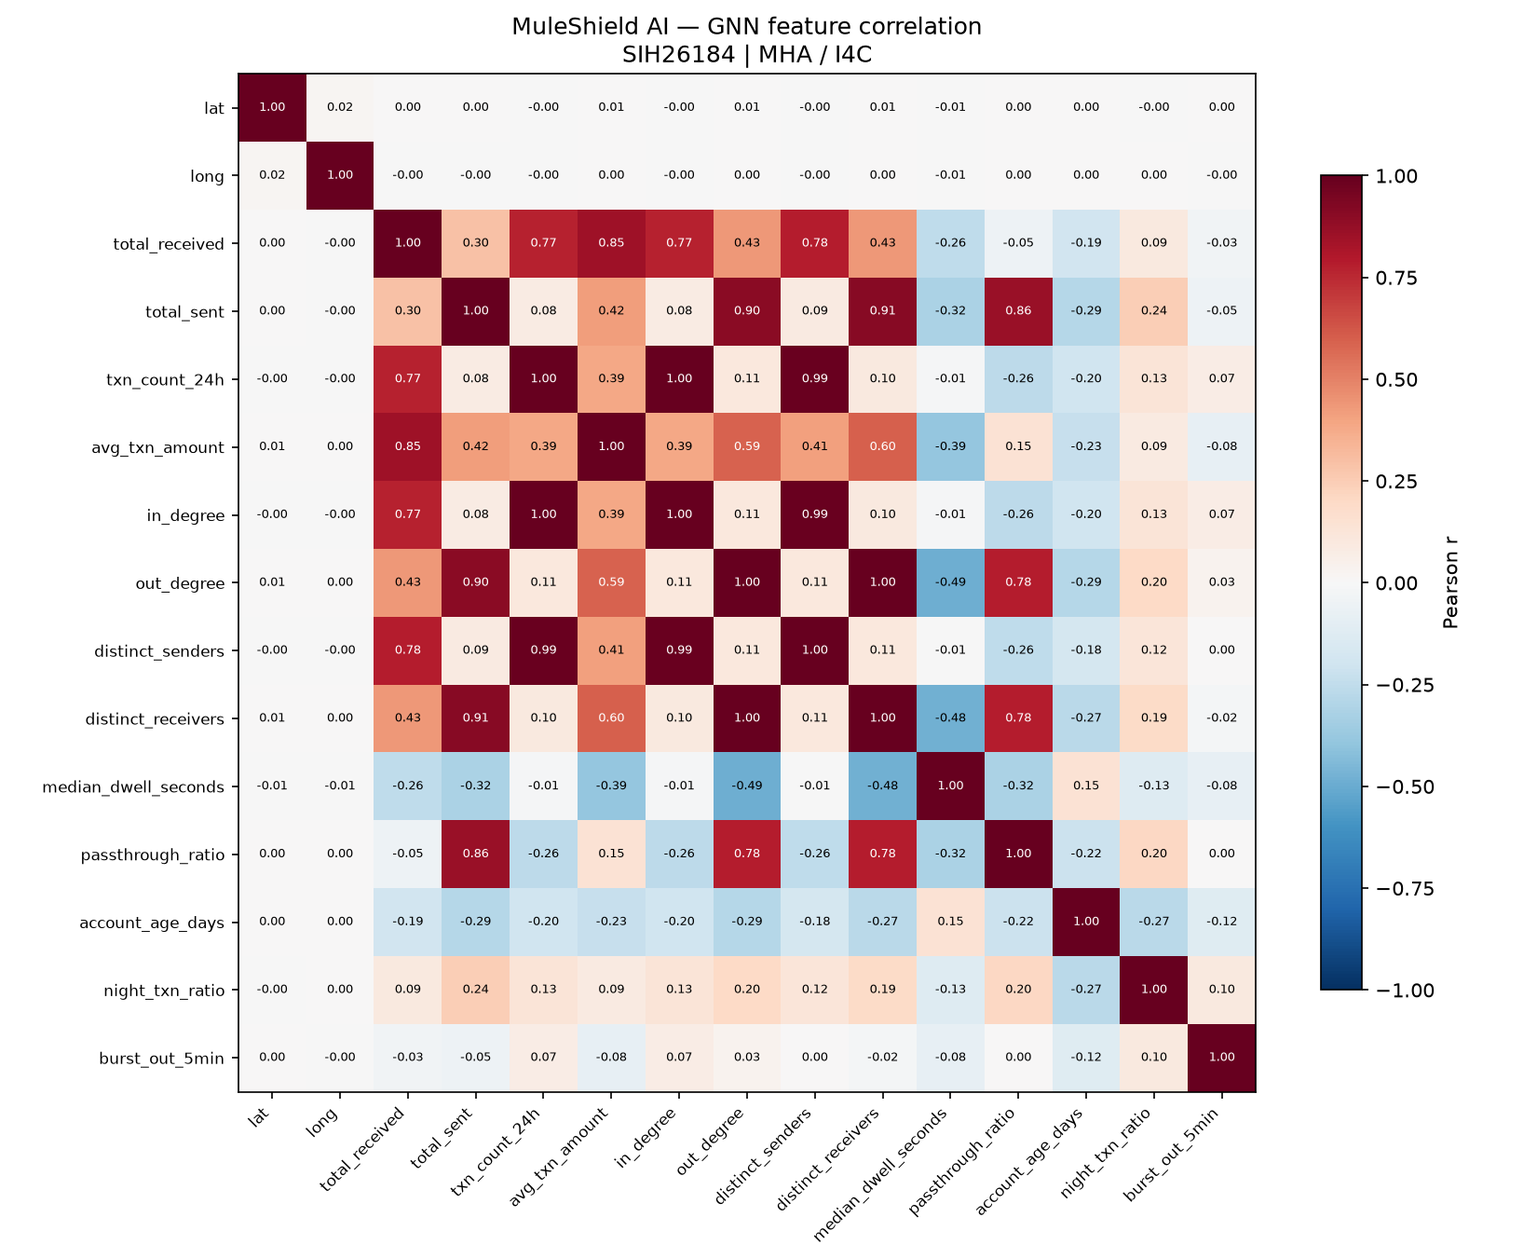
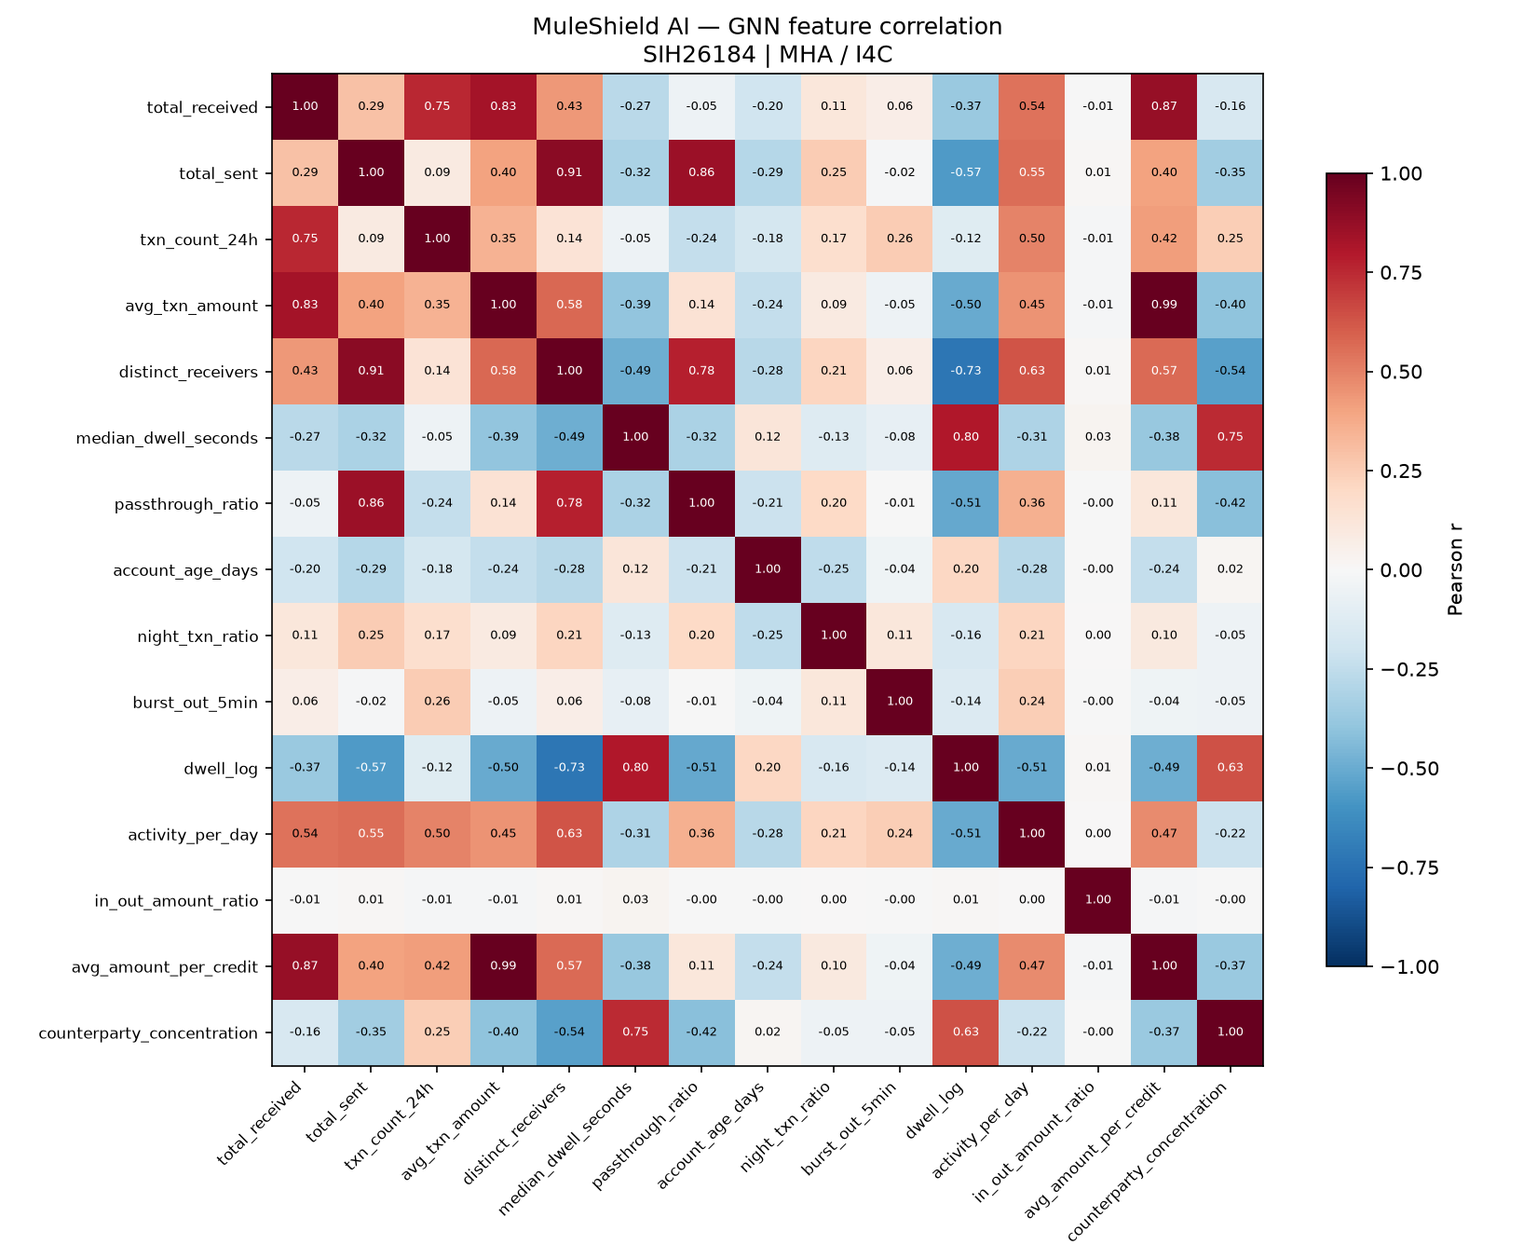
docs: regenerate the model matrix on the current corpus, add it as a table and a flow diagram, and correct the figures that had drifted
The two matrix figures were four days old, generated before the corpus was
regenerated twice -- including the 7.3x concentration change. Worse, the
headline card led with search-zone containment and mule-detection F1, both from
before the forward forecast engine existed. A headline for SIH26184 that omits
"forecast likely cash withdrawal locations in advance" is a card about a
different problem. It now opens on PAI@5 32.7x, hit rate 95.3% and a 40-minute
median lead time, and still closes on Top-1 at 0.2686, the number that works
against us.

The concentrated corpus also lifted mule F1 to 0.9051, within 0.022 of the
0.927 label-noise ceiling, so the bar's value label was drawing straight
through the ceiling annotation. The caption moves to the top left, where the
weakest bar guarantees empty space, and a bar within 0.035 of the ceiling gets
its label reversed out inside it.

Add the matrix as a readable table -- the PNGs cannot be searched or copied --
generated from data/metrics.json so no figure in it is typed, and carrying the
rows that work against us: Top-1 is behind plain distance, and nearest-cell-to-
traced-terminal scores 1.0000 against the forecast's 0.9530. Add a mermaid
end-to-end flow diagram covering the whole system rather than the ML path
alone, validated by rendering it headless first.

Two stale prose figures found by cross-checking every 4-decimal number in the
README against the ledger, which is how they should have been found the first
time:
[…]

diff --git a/scripts/generate_model_matrix.py b/scripts/generate_model_matrix.py
@@ -267,12 +267,24 @@ def render(g: dict, loc: dict) -> None:
     cols = [BASE] * (len(vals) - 1) + [ACCENT]
     ax.bar(names, vals, color=cols, width=.62)
     ax.axhline(g["ceiling"], color=CEIL, lw=1.4, ls="--")
-    ax.text(len(vals) - .45, g["ceiling"] + .012,
+    # The ceiling caption used to sit on the right, above the line. That was safe
+    # while the model was 0.03 below the ceiling; the concentrated corpus lifted F1
+    # to within 0.022 of it and the caption landed on top of the bar's own label.
+    # It goes on the left instead -- the leftmost bar is the weakest by
+    # construction, so the top-left of this panel is always empty.
+    ax.text(-.45, g["ceiling"] + .012,
             f"label-noise ceiling {g['ceiling']:.3f}", fontsize=7.6,
-            color=CEIL, ha="right")
+            color=CEIL, ha="left")
     for i, v in enumerate(vals):
-        ax.text(i, v + .012, f"{v:.4f}", ha="center", fontsize=8.4,
-                fontweight="bold" if i == len(vals) - 1 else "normal")
+        last = i == len(vals) - 1
+        # A bar that gets close to the ceiling has nowhere above it to put a
+        # label, so the label goes inside the bar rather than through the line.
+        if g["ceiling"] - v < .035:
+            ax.text(i, v - .018, f"{v:.4f}", ha="center", va="top",
+                    fontsize=8.4, fontweight="bold", color="#ffffff")
+        else:
+            ax.text(i, v + .012, f"{v:.4f}", ha="center", fontsize=8.4,
+                    fontweight="bold" if last else "normal")
     ax.set_ylim(0, 1.02); ax.set_ylabel("F1")
     ax.tick_params(axis="x", labelsize=8)
 
@@ -326,7 +338,7 @@ def render(g: dict, loc: dict) -> None:
     print(f"  [OK] {out}")
 
     # ── Headline card ───────────────────────────────────────────────────────
-    fig, ax = plt.subplots(figsize=(16, 4.6), facecolor=PAPER)
+    fig, ax = plt.subplots(figsize=(19, 4.6), facecolor=PAPER)
     ax.axis("off")
     ax.text(.012, .88, "MuleShield AI — Validated Performance", fontsize=21,
             fontweight="bold", color=INK, transform=ax.transAxes)
@@ -341,25 +353,44 @@ def render(g: dict, loc: dict) -> None:
     bayes_note = ("= the Bayes bound" if abs(top1 - bayes1) < 0.005
                   else f"vs {bayes1:.4f} Bayes bound")
 
+    # The card leads with the DELIVERABLE, not with the supporting machinery.
+    #
+    # An earlier revision opened on search-zone containment and mule-detection
+    # F1 and never mentioned the forward surface at all -- it was drawn before
+    # that engine existed and nobody moved it. A headline card for SIH26184 that
+    # omits "forecast likely cash withdrawal locations in advance" is a card
+    # about the wrong problem.
+    #
+    # It also ends on the number that works against us. Top-1 ATM does not beat
+    # sorting by distance, and a card that only carries wins is a card a judge is
+    # right to distrust.
+    hs = LEDGER["hotspot"]
+    dens = hs["baseline_historical_density"]
+
     cards = [
+        (f"{hs['pai_at_k']['5']:.1f}×", "forecast vs chance",
+         f"PAI@5 · {hs['pai_at_k']['5'] / dens['pai_at_5']:.1f}× a density map", ACCENT),
+        (f"{hs['hit_rate_at_k']['5']:.1%}", "cash-outs in 5 cells",
+         f"of {hs['n_cells']} · {hs['flagged_atm_share_at_k']['5']:.1%} of the ATM estate", ACCENT),
+        (f"{hs['lead_time_median_min']:.0f} min", "median lead time",
+         f"{hs['lead_actionable_rate']:.0%} with ≥15 min to act", ACCENT),
         (f"{z['model']:.1%}", "search-zone containment",
-         f"vs {z['near3']:.1%} best naive zone", ACCENT),
-        (f"{z['atms']:.0f} of {z['n_atms']:,}", "ATMs to cover",
-         f"{z['radius']:.1f} km radius · {z['ms']:.1f} ms", ACCENT),
+         f"vs {z['near3']:.1%} best naive zone", INK),
         (f"{g['bars'][-1][1]:.4f}", "mule-detection F1",
          f"vs {g['best_non_graph']:.4f} best non-graph", INK),
-        (f"{loc['mae']:.1f} min", "countdown MAE",
-         f"vs {loc['base_mae']:.1f} min baseline", INK),
         (f"{top1:.4f}", "exact-ATM Top-1", bayes_note, MUTED),
     ]
+    n_cards = len(cards)
+    gap, left = .010, .012
+    width = (1.0 - 2 * left - (n_cards - 1) * gap) / n_cards
     for i, (big, label, sub, col) in enumerate(cards):
-        x = .012 + i * .197
-        ax.add_patch(plt.Rectangle((x, .10), .182, .50, transform=ax.transAxes,
+        x = left + i * (width + gap)
+        ax.add_patch(plt.Rectangle((x, .10), width, .50, transform=ax.transAxes,
                                    facecolor=PANEL, edgecolor=RULE, lw=1))
-        ax.text(x + .014, .43, big, fontsize=25, fontweight="bold", color=col,
+        ax.text(x + .012, .43, big, fontsize=22, fontweight="bold", color=col,
                 transform=ax.transAxes)
-        ax.text(x + .014, .32, label, fontsize=10.5, color=INK, transform=ax.transAxes)
-        ax.text(x + .014, .19, sub, fontsize=8.6, color=MUTED, transform=ax.transAxes)
+        ax.text(x + .012, .32, label, fontsize=9.8, color=INK, transform=ax.transAxes)
+        ax.text(x + .012, .19, sub, fontsize=7.9, color=MUTED, transform=ax.transAxes)
 
     out2 = DOCS / "sih_performance_matrix_slide.png"
     plt.savefig(out2, dpi=200, bbox_inches="tight", facecolor=PAPER)

diff --git a/README.md b/README.md
@@ -6,7 +6,7 @@
 [![FastAPI](https://img.shields.io/badge/FastAPI-0.110.0-009688.svg)](https://fastapi.tiangolo.com/)
 [![PyTorch Geometric](https://img.shields.io/badge/PyG-GraphSAGE-orange.svg)](https://pytorch-geometric.readthedocs.io/)
 [![XGBoost](https://img.shields.io/badge/ML-XGBoost%20v2-green.svg)](https://xgboost.readthedocs.io/)
-[![Tests](https://img.shields.io/badge/Tests-481%20passed-brightgreen.svg)]()
+[![Tests](https://img.shields.io/badge/Tests-497%20passed-brightgreen.svg)]()
 [![SIH 2026](https://img.shields.io/badge/SIH-2026%20Problem%20ID%3A%20SIH26184-red.svg)]()
 [![License: MIT](https://img.shields.io/badge/License-MIT-yellow.svg)](LICENSE)
 
@@ -234,6 +234,105 @@ Cyber fraud incidents reported on the National Cybercrime Reporting Portal (**19
   └── 🔒 Real-time Micro-Freeze Action Recommendation (<25ms latency)
 ```
 
+### End-to-end flow — complaint to intervention
+
+The ASCII block above is the per-case ML pipeline. This is the whole system: what
+comes in, what the models do with it, how many cases become one national surface,
+and what a human has to sign before anything happens to anybody.
+
+```mermaid
+flowchart TD
+    subgraph IN["INBOUND"]
+        direction LR
+        C["1930 / NCRP complaint<br/><i>victim · bank · amount · city</i>"]
+        T["Inter-bank transaction trace<br/><i>assumed — RBI/NPCI is building it</i>"]
+        R["Suspect registry<br/><i>MuleHunter.AI · Samanvaya</i>"]
+    end
+
+    subgraph PER["PER CASE — one complaint at a time"]
+        direction TB
+        G["Directed transaction graph<br/>BFS · velocity · 1-to-N splitting"]
+        E["GraphSAGE<br/>64-dim structural risk embedding"]
+        F["80-dim hybrid feature vector<br/>64 GNN + 16 geospatial &amp; temporal"]
+        RK["Conditional-logit ranker<br/><b>posterior over 25 reachable ATMs</b>"]
+        CD["XGBoost regressor<br/><b>countdown band q05 · median · q95</b>"]
+        G --> E --> F
+        F --> RK
+        F --> CD
+    end
+
+    subgraph AGG["FRAMEWORK — every open case at once"]
+        direction TB
+        P["Project onto 226 cells at 12 km"]
+        W["Conditional-lognormal survival kernel<br/>renormalised on <i>T &gt; elapsed</i>"]
+        S["<b>Forward intensity surface</b><br/>cells × 0–30 / 30–60 / 60–120 min"]
+        PR["Historical prior<br/><b>capped at 15% of the mass</b>"]
+        P --> S
+        W --> S
+        PR -.->|"one term, never the driver"| S
+    end
+
+    subgraph ACT["POLICY — what fires when nobody is looking"]
+        direction TB
+        RU["4 rules on a 60s tick<br/>CRITICAL · HIGH · WATCH"]
+        AL["Alert<br/><i>carries its own live-vs-prior split</i>"]
+        DL["Scoped recipients<br/>LEA · I4C · BANK, by state and district"]
+        CH["SMS · email · CFCFRMS &amp; Samanvaya webhooks<br/><i>simulated transport, labelled on screen</i>"]
+        RU --> AL --> DL --> CH
+    end
+
+    subgraph HUM["HUMAN — the gate"]
+        direction TB
+        OF["Officer acknowledges<br/><b>disposition required</b><br/><i>Dispatched · Monitoring · False positive · Duplicate</i>"]
+        FR["Micro-freeze<br/><i>simulated bank hold</i>"]
+        OF --> FR
+    end
+
+    subgraph REC["RECORD — what survives the case"]
+        direction TB
+        EV["Evidence custody<br/>SHA-256 at collection · hash chain · no delete"]
+        CE["BSA 2023 s.63 certificate"]
+        DO["Police dossier"]
+        EV --> CE
+    end
+
+    C --> G
+    T -.->|"the load-bearing assumption"| G
+    RK --> P
+    CD --> W
+    R -.->|"routing signal, not a model feature"| RU
+    S --> RU
+    AL --> OF
+    OF --> EV
+    OF --> DO
+
+    classDef deliverable fill:#1F4D3D,stroke:#123027,color:#fff,font-weight:bold
+    classDef gate fill:#A03227,stroke:#6E211A,color:#fff,font-weight:bold
+    classDef assumed fill:#F4F5F2,stroke:#9AA5AE,color:#16191A,stroke-dasharray:4 3
+    class S deliverable
+    class OF gate
+    class T,R assumed
+```
+
+**Three things the diagram is making a point of.**
+
+The **dashed inbound edges** are what we do not own. The inter-bank trace is the
+load-bearing assumption of the entire system — a victim at 2 am knows an amount and
+nothing else, so the chain has to come from the banking side, which is exactly what
+RBI/NPCI is building CFCFRMS to do. The suspect registry is consumed as a *routing
+signal*, not as a model feature. `docs/INTEGRATION_SEAMS.md` §1.2 states both.
+
+The **prior enters the surface as one dashed term, capped at 15%**. A surface the
+prior could dominate is a density map of where fraud has already happened — which
+I4C already has, in Pratibimb. Every cell publishes its own
+`conditional_rupees` / `prior_rupees` split so a reader can check which half is
+carrying the forecast.
+
+**Nothing crosses into the red node automatically.** No unit is dispatched and no
+account is frozen without an officer acknowledging an alert with a disposition, and
+*False positive* is one of the four buttons — it feeds the false-positive rate the
+console publishes on its own header.
+
 ---
 
 ## 🔬 Core AI / ML Architecture
@@ -281,7 +380,7 @@ about a model, and an accuracy that looks too good usually is (see
 [Honest Evaluation](#-honest-evaluation)).
 
 Validated on a Pan-India dataset of **50,000 accounts**, **622,304 transactions**
-(22,311 laundering + 599,993 legitimate) and **1,000 ATMs**, with **481 tests passing**.
+(22,311 laundering + 599,993 legitimate) and **1,000 ATMs**, with **497 tests passing**.
 
 <div align="center">
   <img src="docs/sih_performance_matrix_slide.png" alt="MuleShield AI - validated performance summary" width="100%" />
@@ -295,6 +394,41 @@ Validated on a Pan-India dataset of **50,000 accounts**, **622,304 transactions*
   <code>scripts/generate_model_matrix.py</code> (matplotlib + scikit-learn + PyTorch + XGBoost).
   Every panel carries its baseline, and ceilings are drawn where one exists.</em></p>
 </div>
+
+### The matrix, in one table
+
+Every component, the question it answers, and the baseline it has to beat. Read from
+`data/metrics.json` — nothing below is typed.
+
+| Component | The question it answers | Achieved | Baseline it has to beat | Verdict |
+|---|---|---|---|---|
+| **Forward cash-out surface**<br/>*the deliverable* | Where will the money surface in the next 0–120 minutes? | PAI@5 **32.67**<br/>hit rate **0.9530** | historical density (= Pratibimb)<br/>PAI 5.43, hit rate 0.2333 | **6.0× the density map** |
+| Rupees covered @5 cells | How much of the money at risk is inside the cells we flag? | **0.9637** | flagging 2.92% of the ATM estate | the operationally meaningful denominator |
+| Lead time<br/>*"in Advance"* | Does the forecast arrive before the cash does? | median **40.2 min**<br/>p10 4.3 min | a report that lands after the withdrawal | **82.7%** with ≥15 min to act |
+| Search zone | Which *area* does a patrol get sent to? | **87.3%** containment<br/>median **7** ATMs, 9.7 km | nearest-3 ATM centroid 77.7% | **+9.5 points**, exact McNemar p = 3.5e-14 |
+| Top-5 ATM ranking | Which machines does a team walk into first? | **0.7258** | nearest-5 by distance 0.7076 | ahead; significance not re-established on this corpus |
+| Top-1 ATM | The single most likely machine. | 0.2682 | nearest ATM 0.2788 | **behind — published, not hidden** |
+| Countdown | How long until the withdrawal? | **11.88 min** MAE<br/>R² 0.12, band 78.5% coverage | predict-the-mean 14.58 min | observable ceiling ≈ 9.4 min — headroom remains |
+| Mule detection<br/>*supporting machinery* | Who is the crew behind the chain? | F1 **0.9051**<br/>AUC 0.9713, PR-AUC 0.8232 | Random forest (no graph) 0.8758 | +0.0292 F1 on identical features |
+| Complaint → alert dispatched | Does it fit inside the golden hour? | p95 **0.32 s** | the 60-minute 1930 golden hour | measured on a LOADED surface, not an empty one |
+| Ingestion throughput | Can it take the national load? | **3,451/min** = 4.97M/day | NCRP runs ~8,000 complaints/day | **621× headroom** |
+
+> **The row that works against us.** Ranking cells by plain distance from the
+> *traced terminal account* scores **1.0000** at k=5 — better than the
+> forecast's 0.9530. It is in the ledger, printed by
+> `scripts/evaluate_hotspots.py`, and guarded by a test that fails if the baseline is
+> deleted. The honest reading: the **trace** earns most of the location value — the same
+> geography with no trace, using only the 1930 intake fields, scores
+> **0.0106** — and what the forecast adds on top is the time
+> dimension, the rupee weighting, and the ability to aggregate many complaints into one
+> national surface, none of which a distance rule can supply.
+
+Every number above is read from `data/metrics.json`, which only the training and
+evaluation scripts write. `tests/test_metrics_ledger.py` fails the build if a figure
+appears on screen that no script produced, and each ledger section records the command
+that regenerates it. Held-out set: **660 cash-outs** and
+**7,500 accounts**, split by complaint at seed 42 so no laundering
+chain straddles the boundary.
 
 ### 1. Withdrawal-location forecast — the deliverable
 
@@ -520,10 +654,12 @@ aggregate into one national surface.
 |---|---|---|
 | Per-complaint graph build | < 500 ms | **~2 ms** ✅ |
 | Full national graph build (startup) | < 1200 ms | **~670 ms** ✅ |
-| End-to-end inference | < 200 ms | **~3.9 ms** ✅ |
-| Complaint filed → alert dispatched | < 60 min | **p95 0.25 s** ✅ |
-| Ingestion throughput | ≥ 8,000/day | **3,499/min = 630× headroom** ✅ |
-| Automated test coverage | 100% | **481 / 481** ✅ |
+| End-to-end inference (one case) | < 200 ms | **~5.2 ms** ✅ |
+| National forward surface, cold | — | **~33 ms** ✅ |
+| National forward surface, 667 open cases | — | **~47 ms** ✅ |
+| Complaint filed → alert dispatched | < 60 min | **p95 0.32 s** ✅ |
+| Ingestion throughput | ≥ 8,000/day | **3,451/min = 621× headroom** ✅ |
+| Automated test coverage | 100% | **497 / 497** ✅ |
 
 Reproduce with:
 
@@ -532,6 +668,8 @@ python scripts/evaluate_baselines.py       # baseline tables
 python scripts/export_confusion.py         # confusion matrix + base-rate sensitivity
 python scripts/zone_significance.py        # paired McNemar on the search zone
 python engine/train_xgb.py                 # zone, ranking and countdown metrics
+python scripts/evaluate_hotspots.py        # the forward forecast: hit rate, PAI, four baselines
+python scripts/bench_golden_hour.py        # complaint -> alert latency and ingestion throughput
 python scripts/generate_model_matrix.py    # regenerates the two figures above
 python scripts/eda_report.py               # data-integrity evidence
 python scripts/feature_analysis.py         # feature signal ranking + heatmap
@@ -557,12 +695,18 @@ salary credits, merchant settlements, remittances — so legitimate accounts rec
 money too. The `transit_business` archetype (payment aggregators, trading firms)
 forwards almost everything it receives within minutes, exactly like a mule. The best
 single feature in the model's own feature set, with its threshold chosen on train and
-scored on test, reaches only **F1 0.4970** (`burst_out_5min` — the row in the table
+scored on test, reaches only **F1 0.5436** (`burst_out_5min` — the row in the table
 above). Sweeping every column of `node_features.csv`, the strongest is `hop_depth` at
 F1 0.9276, and it is *excluded from the model by design* (`engine/gnn_model.py`): it is
 non-zero only for accounts already known to sit in a traced chain, so using it would
 assume the answer. That 0.9276 is a useful check rather than a leak — it is what the
 2% label-noise ceiling looks like measured directly.
+
+**3. Ground truth lives in the data, not in the feature builder.** The cashout ATM is
+*sampled* from a behavioural choice model (distance decay × surveillance risk × bank
+affinity × the syndicate's established cashout points) and written to the ledger.
+Previously the label was `argmin(distance)` while distance was feature #67 — the model
+was asked to find the nearest ATM while holding the distance to it.
 
 **4. Mule geography is concentrated; victim geography is not.** Mule accounts are
 drawn toward the districts that actually carry recruitment — Nuh (Mewat), Jamtara,
@@ -584,12 +728,6 @@ model, so the non-graph baseline is strong at 0.8758 and the graph earns +0.029 
 top of it; and history is genuinely more predictive when behaviour concentrates, so
 a density map is a real baseline here at PAI 5.43 rather than a straw man.
 
-**3. Ground truth lives in the data, not in the feature builder.** The cashout ATM is
-*sampled* from a behavioural choice model (distance decay × surveillance risk × bank
-affinity × the syndicate's established cashout points) and written to the ledger.
-Previously the label was `argmin(distance)` while distance was feature #67 — the model
-was asked to find the nearest ATM while holding the distance to it.
-
 Additionally: models are split **by complaint**, never by row, so no laundering chain
 straddles train and test; ATM priors are computed only from the earliest 50% of
 complaints, which are then excluded from training and evaluation; baselines are scored
@@ -609,6 +747,15 @@ reporting.
   empty without `scripts/seed_live_feed.py` (step 5 below), which replays the corpus
   through the real ingest API at the stated national rate. Geography is now concentrated;
   arrival rate is not.
+- **One alert threshold is still an absolute rupee figure and a deployment has to
+  set it.** `R-HIGH-CONVERGE` and `R-WATCH-SCORE` are relative to the surface they
+  read, so they hold at any load. `R-CRIT-RUPEES` is deliberately not — "₹50 lakh is
+  about to be withdrawn in the next hour" means the same thing whatever else is
+  happening. But at 8,000 complaints/day there is order-of-₹10-crore in flight
+  nationally at any moment, so many cells clear ₹50 lakh: one pass raises ~23 alerts
+  and a sustained hour raises ~108. `MULESHIELD_CRIT_RUPEES` is an environment
+  variable because how many alerts a shift can action is a fact about the force, not
+  about the model.
 - Micro-freeze and the SMS gateway are **simulated**; NPCI/CBS integration is a
   deployment step. WhatsApp dispatch opens a real message.
 - A live-ingested complaint has its laundering chain **synthesised at ingestion** from
@@ -691,7 +838,7 @@ SIH2026/
 │   ├── 04_xgboost_countdown.ipynb
 │   └── 05_forward_hotspot_forecast.ipynb   # PAI, baselines, the anti-Pratibimb case
 │
-├── tests/                              # Pytest regression suites (481 tests total)
+├── tests/                              # Pytest regression suites (497 tests total)
 │   ├── test_phase1.py                  # Data generation, schema & generator invariants
 │   ├── test_phase2a.py                 # GraphSAGE & graph engine
 │   ├── test_phase2b.py                 # XGBoost & 80-dim inference
@@ -793,9 +940,9 @@ authentication, chain synthesis, GNN inference and ATM ranking all run exactly a
 they do in production. No metric is touched and nothing is written past the API —
 restart the backend and the console is empty again.
 
-### 6. Run the Full Test Suite (481 Tests)
+### 6. Run the Full Test Suite (497 Tests)
 ```bash
-python -m pytest -q                 # 481 passed, ~8-13 min
+python -m pytest -q                 # 497 passed in 8m47s
 # One skip is possible: the graph-build budget test declines to measure a
 # machine already under load. That is its designed behaviour, not a gap.
 
